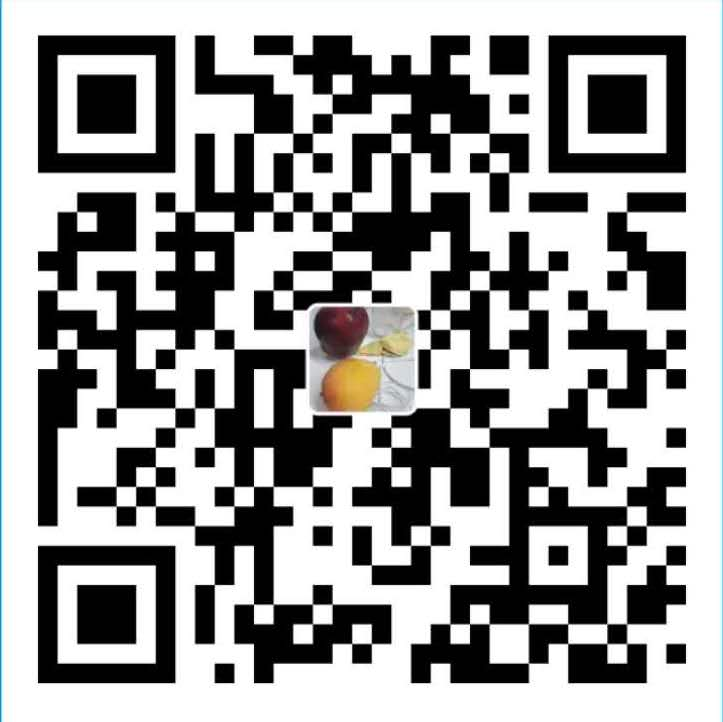
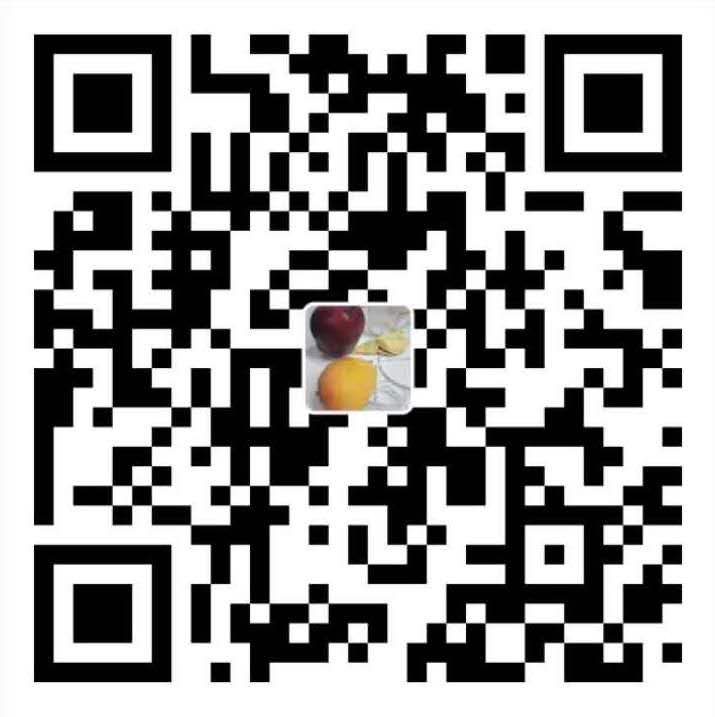
Updates assets/wechatpay.jpeg
Auto commit by GitBook Editor

diff --git a/README.md b/README.md
@@ -25,3 +25,5 @@ What about an error message?
 
 ![](/assets/alipay.jpeg)
 
+![](/assets/wechatpay.jpeg)
+
